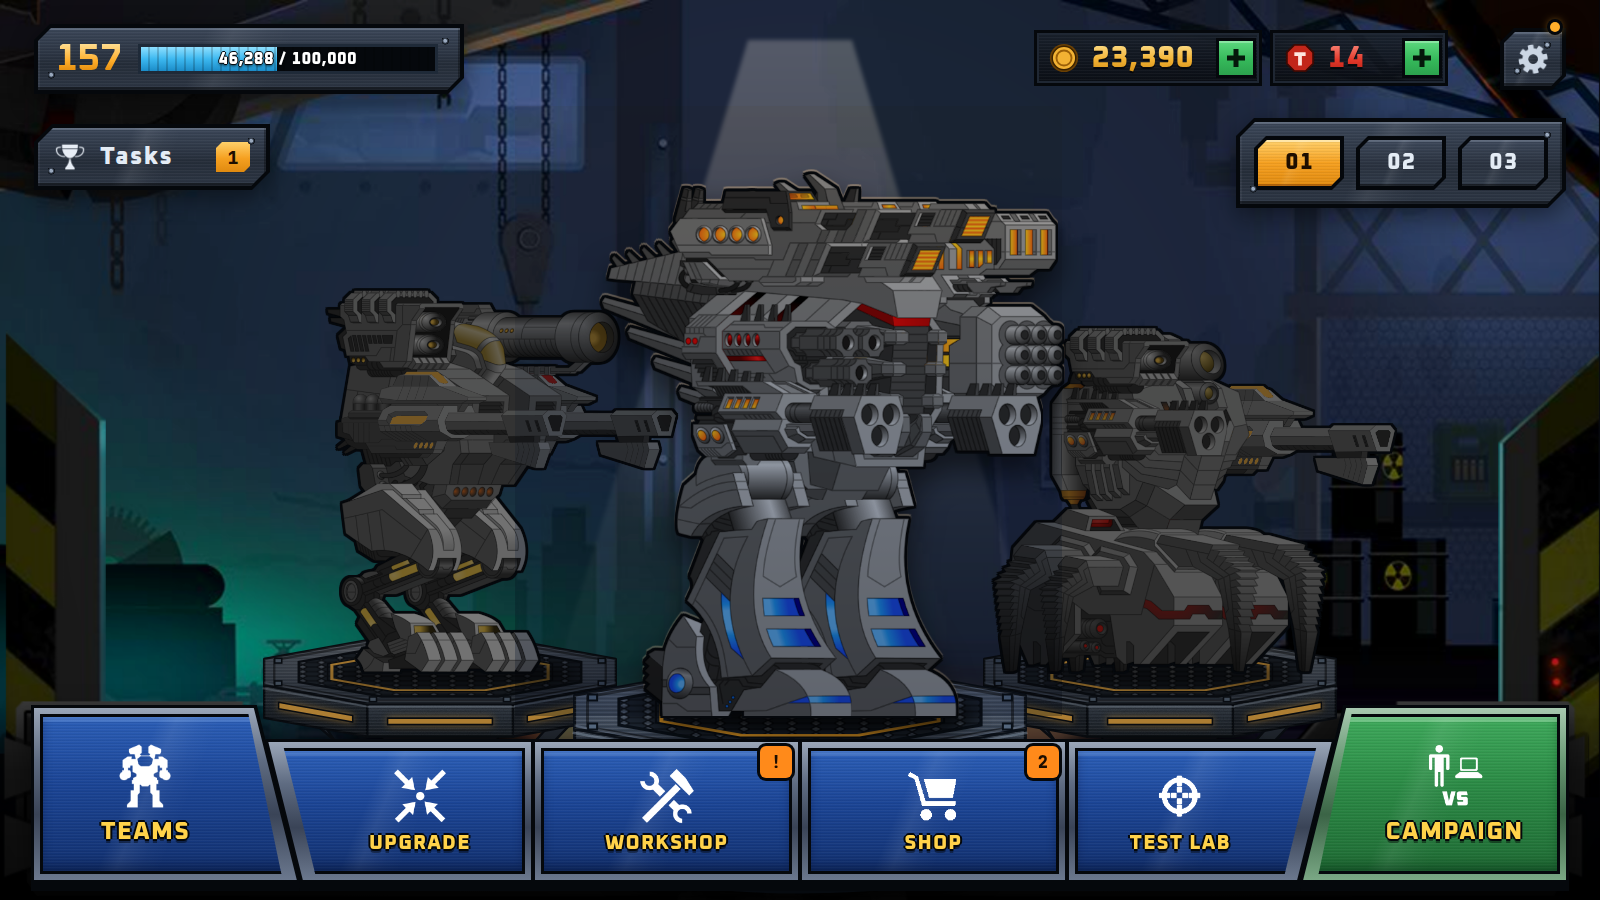
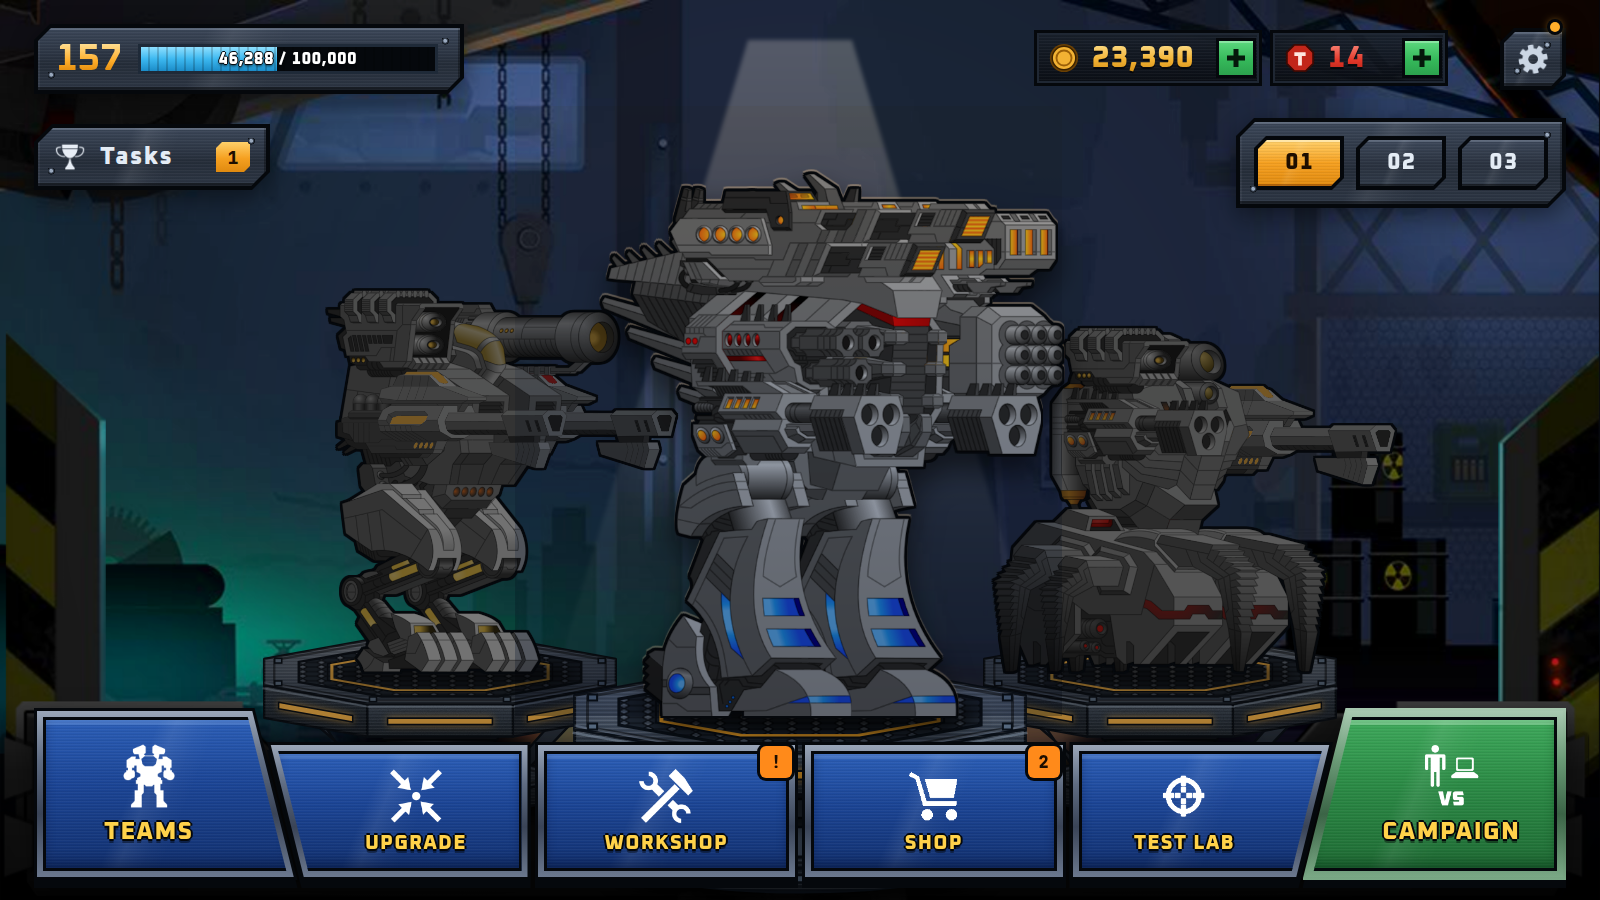
Menu plates as outline > rim > face layers
Each button gets its own dark outline; outline, rim and face share the seam
slope with even insets (3px and 6px), so the rim is the same on straight and
diagonal edges.

Claude-Session: https://claude.ai/code/session_016EMeU7WbdybdkHaQ4QiAx5

Changed region(s): [[0.0312, 0.7778, 1.0, 0.9956], [0.0, 0.7778, 0.1562, 0.9644], [0.0625, 0.84, 0.125, 0.9333]]

diff --git a/ui/mocks/H-bay.html b/ui/mocks/H-bay.html
@@ -230,7 +230,7 @@ canvas{position:absolute;left:0;top:0;width:1600px;height:900px}
   background:linear-gradient(180deg,#9aa6b8,#5f6c82 30%,#3a4457 62%,#6b788e)!important;
   box-shadow:0 0 0 3px #05080c,0 7px 0 #05080c,0 12px 18px rgba(0,0,0,.55)!important;display:block!important}
 .slot::after{display:none!important}
-.slot>.fc{height:100%;border-radius:9px;display:flex;flex-direction:column;align-items:center;justify-content:center;gap:6px;
+.slot .fc{height:100%;border-radius:9px;display:flex;flex-direction:column;align-items:center;justify-content:center;gap:6px;
   background:var(--sheen),var(--brush),linear-gradient(180deg,#2c5fb8,#1b4494 45%,#12306e);box-shadow:inset 0 0 0 3px #05080c,inset 0 5px 0 3px rgba(170,205,255,.22),inset 0 -8px 12px rgba(0,10,40,.45)}
 .slot .mask{width:58px!important;height:58px!important;background:#fff!important;filter:drop-shadow(0 3px 0 rgba(0,0,0,.6))}
 .slot span{font:800 20px var(--f-head)!important;white-space:nowrap;letter-spacing:.06em!important;color:#ffd24a;text-shadow:0 2px 0 #05080c,2px 0 0 #05080c,-2px 0 0 #05080c,0 -2px 0 #05080c,0 4px 0 rgba(0,0,0,.4)}
@@ -248,12 +248,8 @@ canvas{position:absolute;left:0;top:0;width:1600px;height:900px}
 /* diagonal seams: Workshop|Upgrade share a "\" cut, Shop|Deploy share a "/" cut */
 .rack{gap:16px!important;filter:drop-shadow(0 0 0 #05080c)}
 .slot{border-radius:0!important;box-shadow:none!important;--d:34px}
-.slot>.fc{border-radius:0!important}
-.slot:nth-child(1),.slot:nth-child(1)>.fc{clip-path:polygon(0 0,calc(100% - var(--d)) 0,100% 100%,0 100%)}
-.slot:nth-child(2),.slot:nth-child(2)>.fc{clip-path:polygon(0 0,100% 0,100% 100%,var(--d) 100%)}
-.slot:nth-child(5),.slot:nth-child(5)>.fc{clip-path:polygon(0 0,100% 0,calc(100% - var(--d)) 100%,0 100%)}
-.slot:nth-child(1)>.fc{padding-right:var(--d)}.slot:nth-child(2)>.fc{padding-left:var(--d)}.slot:nth-child(5)>.fc{padding-right:var(--d)}
-.rack,.dwrap{filter:drop-shadow(3px 0 0 #05080c) drop-shadow(-3px 0 0 #05080c) drop-shadow(0 3px 0 #05080c) drop-shadow(0 -3px 0 #05080c) drop-shadow(0 8px 0 #05080c) drop-shadow(0 12px 14px rgba(0,0,0,.5))}
+.slot .fc{border-radius:0!important}
+.slot:nth-child(1),.slot:nth-child(2),.slot:nth-child(5),.rack,.dwrap{filter:drop-shadow(3px 0 0 #05080c) drop-shadow(-3px 0 0 #05080c) drop-shadow(0 3px 0 #05080c) drop-shadow(0 -3px 0 #05080c) drop-shadow(0 8px 0 #05080c) drop-shadow(0 12px 14px rgba(0,0,0,.5))}
 .deploy{transform:none!important;border-radius:0!important;box-shadow:none!important;clip-path:polygon(34px 0,100% 0,100% 100%,0 100%)!important}
 .deploy .face{border-radius:0!important;clip-path:polygon(32px 0,100% 0,100% 100%,0 100%)!important}
 .deploy .haz{border-radius:0!important;clip-path:polygon(32px 0,100% 0,calc(100% - 0px) 100%,0 100%)}
@@ -274,10 +270,8 @@ canvas{position:absolute;left:0;top:0;width:1600px;height:900px}
 .slot:nth-child(2),.slot:nth-child(6){margin-left:calc(4px - var(--d) - 4px)}
 .slot:nth-child(1) .mask{width:58px!important;height:58px!important}
 .slot:nth-child(1) span{font-size:20px!important}
-.slot:nth-child(6),.slot:nth-child(6)>.fc{clip-path:polygon(var(--d) 0,100% 0,100% 100%,0 100%)}
-.slot:nth-child(6)>.fc{padding-left:var(--d)}
-.slot.camp{background:linear-gradient(180deg,#a8c9b0,#6a9a76 30%,#3b6446 62%,#7aa885)!important}
-.slot.camp>.fc{background:var(--sheen),var(--brush),linear-gradient(180deg,#3faa5c,#2b8a45 45%,#1f6a34)!important;box-shadow:inset 0 0 0 3px #05080c,inset 0 5px 0 3px rgba(225,255,230,.3),inset 0 -8px 12px rgba(0,40,15,.45)}
+.slot:nth-child(6),.slot.camp{background:linear-gradient(180deg,#a8c9b0,#6a9a76 30%,#3b6446 62%,#7aa885)!important}
+.slot.camp .fc{background:var(--sheen),var(--brush),linear-gradient(180deg,#3faa5c,#2b8a45 45%,#1f6a34)!important;box-shadow:inset 0 0 0 3px #05080c,inset 0 5px 0 3px rgba(225,255,230,.3),inset 0 -8px 12px rgba(0,40,15,.45)}
 
 .rack{top:708px!important;height:172px!important;align-items:flex-end!important}
 .slot{height:138px!important}
@@ -287,13 +281,32 @@ canvas{position:absolute;left:0;top:0;width:1600px;height:900px}
 
 /* seams v2: one slope (1:4) on every diagonal, face cut 7px inside the frame so the rim is even */
 .slot:nth-child(1){clip-path:polygon(0 0,calc(100% - 43px) 0,100% 100%,0 100%)!important}
-.slot:nth-child(1)>.fc{clip-path:polygon(0 0,calc(100% - 42.5px) 0,calc(100% - 9.5px) 100%,0 100%)!important;padding-right:40px!important}
 .slot:nth-child(2){clip-path:polygon(0 0,100% 0,100% 100%,34.5px 100%)!important;margin-left:-32.5px!important}
-.slot:nth-child(2)>.fc{clip-path:polygon(9.5px 0,100% 0,100% 100%,41px 100%)!important;padding-left:40px!important}
 .slot:nth-child(5){clip-path:polygon(0 0,100% 0,calc(100% - 34.5px) 100%,0 100%)!important}
-.slot:nth-child(5)>.fc{clip-path:polygon(0 0,calc(100% - 9.5px) 0,calc(100% - 41px) 100%,0 100%)!important;padding-right:40px!important}
 .slot:nth-child(6){clip-path:polygon(43px 0,100% 0,100% 100%,0 100%)!important;margin-left:-32.5px!important}
-.slot:nth-child(6)>.fc{clip-path:polygon(42.5px 0,100% 0,100% 100%,9.5px 100%)!important;padding-left:40px!important}
+
+/* layered plates: outline (slot) > steel rim (inset 3) > face (inset 9); diagonals share one 1:4 slope */
+.slot{padding:0!important;background:#05080c!important;box-shadow:none!important}
+.slot>.rim{position:absolute;inset:3px;background:linear-gradient(180deg,#9aa6b8,#5f6c82 30%,#3a4457 62%,#6b788e)}
+.slot.camp>.rim{background:linear-gradient(180deg,#a8c9b0,#6a9a76 30%,#3b6446 62%,#7aa885)}
+.slot>.rim>.fc{position:absolute;inset:6px;height:auto!important;clip-path:none}
+
+.rack{filter:drop-shadow(0 8px 0 #05080c) drop-shadow(0 12px 14px rgba(0,0,0,.5))!important}
+.slot:nth-child(1)>.rim>.fc,.slot:nth-child(5)>.rim>.fc{padding-right:34px!important}
+.slot:nth-child(2)>.rim>.fc,.slot:nth-child(6)>.rim>.fc{padding-left:34px!important}
+.slot:nth-child(2),.slot:nth-child(6){margin-left:-34.5px!important}
+.slot:nth-child(1){clip-path:polygon(0 0,calc(100% - 43.0px) 0,calc(100% - 0.0px) 100%,0 100%)!important}
+.slot:nth-child(1)>.rim{clip-path:polygon(0 0,calc(100% - 42.25px) 0,calc(100% - 0.75px) 100%,0 100%)!important}
+.slot:nth-child(1)>.rim>.fc{clip-path:polygon(0 0,calc(100% - 40.75px) 0,calc(100% - 2.25px) 100%,0 100%)!important}
+.slot:nth-child(2){clip-path:polygon(0.0px 0,100% 0,100% 100%,34.5px 100%)!important}
+.slot:nth-child(2)>.rim{clip-path:polygon(0.75px 0,100% 0,100% 100%,33.75px 100%)!important}
+.slot:nth-child(2)>.rim>.fc{clip-path:polygon(2.25px 0,100% 0,100% 100%,32.25px 100%)!important}
+.slot:nth-child(5){clip-path:polygon(0 0,calc(100% - 0.0px) 0,calc(100% - 34.5px) 100%,0 100%)!important}
+.slot:nth-child(5)>.rim{clip-path:polygon(0 0,calc(100% - 0.75px) 0,calc(100% - 33.75px) 100%,0 100%)!important}
+.slot:nth-child(5)>.rim>.fc{clip-path:polygon(0 0,calc(100% - 2.25px) 0,calc(100% - 32.25px) 100%,0 100%)!important}
+.slot:nth-child(6){clip-path:polygon(43.0px 0,100% 0,100% 100%,0.0px 100%)!important}
+.slot:nth-child(6)>.rim{clip-path:polygon(42.25px 0,100% 0,100% 100%,0.75px 100%)!important}
+.slot:nth-child(6)>.rim>.fc{clip-path:polygon(40.75px 0,100% 0,100% 100%,2.25px 100%)!important}
 </style></head>
 <body>
 <div class="stage">
@@ -413,12 +426,12 @@ canvas{position:absolute;left:0;top:0;width:1600px;height:900px}
   <!-- dock -->
   
   <div class="rack">
-    <div class="slot"><div class="fc"><i class="mask" style="--i:url(assets/icons/interface_mech.png)"></i><span>Teams</span></div></div>
-    <div class="slot"><div class="fc"><i class="mask" style="--i:url(assets/icons/interface_fusion.png)"></i><span>Upgrade</span></div></div>
-    <div class="slot"><div class="fc"><i class="mask" style="--i:url(assets/icons/interface_hanger.png)"></i><span>Workshop</span></div><b class="pip">!</b></div>
-    <div class="slot"><div class="fc"><i class="mask" style="--i:url(assets/icons/interface_shop.png)"></i><span>Shop</span></div><b class="pip">2</b></div>
-    <div class="slot"><div class="fc"><i class="mask" style="--i:url(assets/icons/action_weapons.png)"></i><span>Test Lab</span></div></div>
-    <div class="slot camp"><div class="fc"><i class="mask" style="--i:url(assets/icons/interface_battle_singlePlayer.png)"></i><span>Campaign</span></div></div>
+    <div class="slot"><div class="rim"><div class="fc"><i class="mask" style="--i:url(assets/icons/interface_mech.png)"></i><span>Teams</span></div></div></div>
+    <div class="slot"><div class="rim"><div class="fc"><i class="mask" style="--i:url(assets/icons/interface_fusion.png)"></i><span>Upgrade</span></div></div></div>
+    <div class="slot"><div class="rim"><div class="fc"><i class="mask" style="--i:url(assets/icons/interface_hanger.png)"></i><span>Workshop</span></div></div><b class="pip">!</b></div>
+    <div class="slot"><div class="rim"><div class="fc"><i class="mask" style="--i:url(assets/icons/interface_shop.png)"></i><span>Shop</span></div></div><b class="pip">2</b></div>
+    <div class="slot"><div class="rim"><div class="fc"><i class="mask" style="--i:url(assets/icons/action_weapons.png)"></i><span>Test Lab</span></div></div></div>
+    <div class="slot camp"><div class="rim"><div class="fc"><i class="mask" style="--i:url(assets/icons/interface_battle_singlePlayer.png)"></i><span>Campaign</span></div></div></div>
   </div>
   </div>
 </div>
